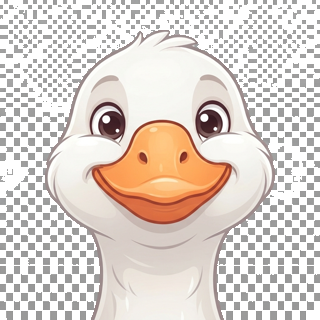
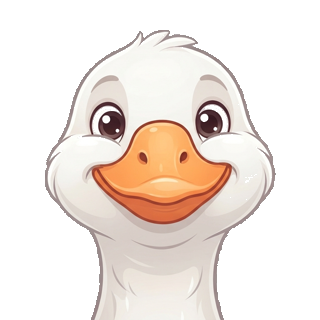
Botón de silenciar, eliminar partidas, ícono real, checkerboard de las fotos, animación suave y micro-historias por etapa
- Botón de silenciar/reactivar sonido fijo en las dos pantallas de
  juego (antes no había forma de bajarle el volumen a la partida sin
  silenciar el celular entero); se guarda la preferencia.
- Botón para eliminar una partida guardada desde "Mis partidas", con
  confirmación.
- Ícono real de la app (antes era el logo de Flutter por defecto):
  generado con flutter_launcher_icons a partir de la cara feliz de la
  oca, para Android (con ícono adaptativo) y web/favicon.
- Encontré la causa real del cuadriculado que seguía viéndose en las
  fotos de la oca: el primer arreglo (flood-fill desde las 4 esquinas)
  dejaba bolsones de cuadriculado sin tocar en zonas no conectadas al
  borde (el hueco entre la cabeza y los hombros, por ejemplo). Ahora
  se limpia por color acromático en todo rango plausible de gris de
  cuadriculado, verificado componiendo cada una de las 10 fotos sobre
  un fondo violeta para confirmar visualmente que ya no quede rastro
  (antes solo se habían revisado unas pocas y con el propio visor,
  que muestra su propio cuadriculado para transparencia real y no
  dejaba notar la diferencia).
- Animación de la cara de la oca: cross-fade suave entre cuadros en
  vez de corte seco, para que se sienta con más movimiento mientras
  no haya más fotos secuenciales.
- Micro-historias de la campaña solo: al llegar a cada etapa nueva
  se muestra una vez el nombre y la leyenda de esa etapa (ya existían
[…]

diff --git a/ocaland_flutter/lib/screens/game_screen_solo.dart b/ocaland_flutter/lib/screens/game_screen_solo.dart
@@ -1,4 +1,5 @@
 import 'package:flutter/material.dart';
+import '../models/campana.dart';
 import '../models/cell_descriptions.dart';
 import '../models/sesion_activa.dart';
 import '../services/audio_service.dart';
@@ -8,6 +9,7 @@ import 'lobby_screen.dart';
 import 'widgets/anuncio_simulado_overlay.dart';
 import 'widgets/board_widget.dart';
 import 'widgets/boton_salir_juego.dart';
+import 'widgets/boton_silenciar.dart';
 import 'widgets/campana_terminada_overlay.dart';
 import 'widgets/dice_widget.dart';
 import 'widgets/eleccion_comodin_overlay.dart';
@@ -15,6 +17,7 @@ import 'widgets/eleccion_perdiste_overlay.dart';
 import 'widgets/eleccion_video_monedas_overlay.dart';
 import 'widgets/espectador_overlay.dart';
 import 'widgets/etapa_banner.dart';
+import 'widgets/etapa_historia_dialog.dart';
 import 'widgets/jugadores_status_row.dart';
 import 'widgets/message_bubble.dart';
 import 'widgets/minijuego_overlay.dart';
@@ -35,6 +38,23 @@ class GameScreenSolo extends StatefulWidget {
 class _GameScreenSoloState extends State<GameScreenSolo> {
   SoloGameController get _c => widget.controller;
   String? _errorInicio;
+  int? _ultimaEtapaHistoriaMostrada;
+
+  /// Micro-historia de la etapa: se muestra una vez al llegar a cada
+  /// etapa nueva de la campaña (pedido explícito, "armarlo para ir
+  /// completando"). Se guarda solo en memoria (no hace falta persistir
+  /// entre sesiones — es más una bienvenida a la etapa que un logro).
+  void _revisarHistoriaEtapa() {
+    final etapa = _c.partida?.etapaActual;
+    if (etapa == null || etapa == _ultimaEtapaHistoriaMostrada) return;
+    _ultimaEtapaHistoriaMostrada = etapa;
+    final info = Campana.etapasInfo[etapa];
+    if (info == null) return;
+    WidgetsBinding.instance.addPostFrameCallback((_) {
+      if (!mounted) return;
+      showDialog(context: context, builder: (_) => EtapaHistoriaDialog(etapa: etapa, info: info));
+    });
+  }
 
   @override
   void initState() {
@@ -83,6 +103,7 @@ class _GameScreenSoloState extends State<GameScreenSolo> {
             if (_c.cargando || _c.partida == null) {
               return const Center(child: CircularProgressIndicator(color: Colors.white));
             }
+            _revisarHistoriaEtapa();
             return Stack(
               children: [
                 Center(
@@ -152,6 +173,7 @@ class _GameScreenSoloState extends State<GameScreenSolo> {
                   ),
                 ),
                 Positioned(top: 4, left: 4, child: BotonSalirJuego(onTap: () => _salir(context))),
+                const Positioned(top: 4, right: 4, child: BotonSilenciar()),
                 _overlayActual(),
               ],
             );

diff --git a/ocaland_flutter/lib/screens/widgets/etapa_historia_dialog.dart b/ocaland_flutter/lib/screens/widgets/etapa_historia_dialog.dart
@@ -1,0 +1,45 @@
+import 'package:flutter/material.dart';
+import '../../models/campana.dart';
+import '../../theme/app_colors.dart';
+
+/// Micro-historia de la etapa: se muestra una vez al llegar a cada etapa
+/// nueva de la campaña solo, con el nombre y la leyenda que ya vivían
+/// escondidos atrás del "📖 Leer" del banner — pedido explícito de
+/// armar esto para ir completando etapa por etapa.
+class EtapaHistoriaDialog extends StatelessWidget {
+  final int etapa;
+  final EtapaInfo info;
+  const EtapaHistoriaDialog({super.key, required this.etapa, required this.info});
+
+  @override
+  Widget build(BuildContext context) {
+    return Dialog(
+      backgroundColor: AppColors.parchment,
+      shape: RoundedRectangleBorder(borderRadius: BorderRadius.circular(28)),
+      child: Padding(
+        padding: const EdgeInsets.fromLTRB(24, 28, 24, 22),
+        child: Column(
+          mainAxisSize: MainAxisSize.min,
+          children: [
+            const Text('📖', style: TextStyle(fontSize: 48)),
+            const SizedBox(height: 10),
+            Text('Etapa $etapa', style: const TextStyle(fontSize: 13, color: AppColors.violetDark, fontWeight: FontWeight.w600)),
+            const SizedBox(height: 4),
+            Text(info.nombre, textAlign: TextAlign.center, style: const TextStyle(fontSize: 21, fontWeight: FontWeight.bold, color: AppColors.violetDark)),
+            const SizedBox(height: 14),
+            Text(info.leyenda, textAlign: TextAlign.center, style: const TextStyle(fontSize: 14.5, color: AppColors.violetDark, height: 1.4)),
+            const SizedBox(height: 22),
+            SizedBox(
+              width: double.infinity,
+              child: ElevatedButton(
+                style: ElevatedButton.styleFrom(backgroundColor: AppColors.gold, foregroundColor: AppColors.violetDark, shape: const StadiumBorder()),
+                onPressed: () => Navigator.of(context).pop(),
+                child: const Text('¡Vamos! 🎲', style: TextStyle(fontWeight: FontWeight.bold)),
+              ),
+            ),
+          ],
+        ),
+      ),
+    );
+  }
+}

diff --git a/ocaland_flutter/lib/screens/mis_partidas_screen.dart b/ocaland_flutter/lib/screens/mis_partidas_screen.dart
@@ -59,6 +59,24 @@ class _MisPartidasScreenState extends State<MisPartidasScreen> {
     }
   }
 
+  Future<void> _eliminar(SesionActiva sesion) async {
+    final confirmar = await showDialog<bool>(
+      context: context,
+      builder: (dialogContext) => AlertDialog(
+        backgroundColor: AppColors.parchment,
+        title: const Text('¿Eliminar esta partida?'),
+        content: const Text('No la vas a poder retomar después.'),
+        actions: [
+          TextButton(onPressed: () => Navigator.of(dialogContext).pop(false), child: const Text('Cancelar')),
+          TextButton(onPressed: () => Navigator.of(dialogContext).pop(true), child: const Text('Eliminar')),
+        ],
+      ),
+    );
+    if (confirmar != true) return;
+    await SessionService.borrar(sesion.partidaId);
+    await _cargar();
+  }
+
   @override
   Widget build(BuildContext context) {
     return Scaffold(
@@ -93,10 +111,16 @@ class _MisPartidasScreenState extends State<MisPartidasScreen> {
             children: [
               for (final s in sesiones)
                 ListTile(
-                  title: Text(s.esModoSolo ? '🤖 Campaña solo' : '👥 Sala ${s.codigo.isEmpty ? "----" : s.codigo}'),
+                  title: Text(s.esModoSolo ? '🏹 Campaña solo' : '👥 Sala ${s.codigo.isEmpty ? "----" : s.codigo}'),
                   trailing: _entrando == s.partidaId
                       ? const SizedBox(width: 18, height: 18, child: CircularProgressIndicator(strokeWidth: 2))
-                      : OutlinedButton(onPressed: () => _entrar(s), child: const Text('Entrar')),
+                      : Row(
+                          mainAxisSize: MainAxisSize.min,
+                          children: [
+                            IconButton(icon: const Icon(Icons.delete_outline, color: AppColors.coral), onPressed: () => _eliminar(s)),
+                            OutlinedButton(onPressed: () => _entrar(s), child: const Text('Entrar')),
+                          ],
+                        ),
                 ),
             ],
           ),

diff --git a/ocaland_flutter/lib/services/audio_service.dart b/ocaland_flutter/lib/services/audio_service.dart
@@ -2,6 +2,7 @@ import 'dart:typed_data';
 import 'package:audioplayers/audioplayers.dart';
 import '../utils/melody_wav.dart';
 import '../utils/tone_wav.dart';
+import 'preferencias_service.dart';
 
 /// Sonido: mismo diseño del prototipo HTML (Web Audio API, osciladores,
 /// sin archivos externos) — acá los tonos se generan como WAV en memoria
@@ -12,6 +13,27 @@ class AudioService {
   AudioService._();
 
   static bool enabled = true;
+
+  /// Carga la preferencia guardada (si el usuario ya silenció antes) —
+  /// se llama una vez al arrancar la app.
+  static Future<void> cargarPreferencia() async {
+    final v = await PreferenciasService.obtenerSonidoActivado();
+    if (v != null) enabled = v;
+  }
+
+  /// Botón de silenciar del juego: guarda la preferencia y corta/retoma
+  /// la música si hay una partida en curso (no vuelve a arrancarla si no
+  /// se le pide explícitamente, para no reactivar música en pantallas
+  /// donde no corresponde).
+  static Future<void> alternarSonido({bool enJuego = false}) async {
+    enabled = !enabled;
+    await PreferenciasService.guardarSonidoActivado(enabled);
+    if (!enabled) {
+      await detenerMusica();
+    } else if (enJuego) {
+      await iniciarMusica();
+    }
+  }
 
   static final Map<String, Uint8List> _cache = {};
   static final List<AudioPlayer> _pool = List.generate(6, (_) {

diff --git a/ocaland_flutter/lib/screens/widgets/boton_silenciar.dart b/ocaland_flutter/lib/screens/widgets/boton_silenciar.dart
@@ -1,0 +1,39 @@
+import 'package:flutter/material.dart';
+import '../../services/audio_service.dart';
+import '../../theme/app_colors.dart';
+
+/// Botón fijo para silenciar/reactivar el sonido de la partida en
+/// curso — pedido explícito del usuario, no existía ninguna forma de
+/// bajarle el volumen al juego sin silenciar el celular entero.
+class BotonSilenciar extends StatefulWidget {
+  const BotonSilenciar({super.key});
+
+  @override
+  State<BotonSilenciar> createState() => _BotonSilenciarState();
+}
+
+class _BotonSilenciarState extends State<BotonSilenciar> {
+  late bool _activado = AudioService.enabled;
+
+  Future<void> _alternar() async {
+    await AudioService.alternarSonido(enJuego: true);
+    if (mounted) setState(() => _activado = AudioService.enabled);
+  }
+
+  @override
+  Widget build(BuildContext context) {
+    return Material(
+      color: Colors.white,
+      shape: const CircleBorder(),
+      elevation: 3,
+      child: InkWell(
+        customBorder: const CircleBorder(),
+        onTap: _alternar,
+        child: Padding(
+          padding: const EdgeInsets.all(8),
+          child: Icon(_activado ? Icons.volume_up : Icons.volume_off, color: AppColors.violetDark, size: 22),
+        ),
+      ),
+    );
+  }
+}

diff --git a/ocaland_flutter/lib/services/preferencias_service.dart b/ocaland_flutter/lib/services/preferencias_service.dart
@@ -10,6 +10,7 @@ class PreferenciasService {
   static const _kEdad = 'pref_edad_bracket';
   static const _kPais = 'pref_pais';
   static const _kNivelJuegos = 'pref_nivel_juegos';
+  static const _kSonido = 'pref_sonido_activado';
 
   static Future<String?> obtenerEdad() async {
     final prefs = await SharedPreferences.getInstance();
@@ -42,5 +43,17 @@ class PreferenciasService {
   static Future<void> guardarNivelJuegos(String nivel) async {
     final prefs = await SharedPreferences.getInstance();
     await prefs.setString(_kNivelJuegos, nivel);
+  }
+
+  /// Preferencia de sonido/música, para que el botón de silenciar del
+  /// juego se mantenga apagado entre partidas y al volver a abrir la app.
+  static Future<bool?> obtenerSonidoActivado() async {
+    final prefs = await SharedPreferences.getInstance();
+    return prefs.containsKey(_kSonido) ? prefs.getBool(_kSonido) : null;
+  }
+
+  static Future<void> guardarSonidoActivado(bool activado) async {
+    final prefs = await SharedPreferences.getInstance();
+    await prefs.setBool(_kSonido, activado);
   }
 }

diff --git a/ocaland_flutter/lib/screens/widgets/oca_face.dart b/ocaland_flutter/lib/screens/widgets/oca_face.dart
@@ -80,6 +80,19 @@ class _OcaFaceState extends State<OcaFace> {
   Widget build(BuildContext context) {
     final cuadros = _cuadros;
     final nombre = cuadros[_cuadro % cuadros.length];
-    return Image.asset('assets/mascota/$nombre.png', width: widget.size, height: widget.size);
+    // Cross-fade entre cuadros en vez de corte seco — pedido explícito
+    // de que la animación "parezca con movimiento nato" mientras no
+    // haya más fotos secuenciales para un flip-book más fluido.
+    return AnimatedSwitcher(
+      duration: const Duration(milliseconds: 500),
+      switchInCurve: Curves.easeOut,
+      switchOutCurve: Curves.easeIn,
+      child: Image.asset(
+        'assets/mascota/$nombre.png',
+        key: ValueKey(nombre),
+        width: widget.size,
+        height: widget.size,
+      ),
+    );
   }
 }

diff --git a/ocaland_flutter/lib/screens/game_screen_multi.dart b/ocaland_flutter/lib/screens/game_screen_multi.dart
@@ -7,6 +7,7 @@ import 'lobby_screen.dart';
 import 'widgets/anuncio_simulado_overlay.dart';
 import 'widgets/board_widget.dart';
 import 'widgets/boton_salir_juego.dart';
+import 'widgets/boton_silenciar.dart';
 import 'widgets/desempate_panel.dart';
 import 'widgets/dice_widget.dart';
 import 'widgets/eleccion_video_monedas_overlay.dart';
@@ -139,6 +140,7 @@ class _GameScreenMultiState extends State<GameScreenMulti> {
                   ),
                 ),
                 Positioned(top: 4, left: 4, child: BotonSalirJuego(onTap: () => _salir(context))),
+                const Positioned(top: 4, right: 4, child: BotonSilenciar()),
                 _overlayActual(c),
               ],
             );

diff --git a/ocaland_flutter/lib/main.dart b/ocaland_flutter/lib/main.dart
@@ -1,11 +1,13 @@
 import 'package:flutter/material.dart';
 import 'screens/root_screen.dart';
+import 'services/audio_service.dart';
 import 'services/supabase_service.dart';
 import 'theme/app_colors.dart';
 
 Future<void> main() async {
   WidgetsFlutterBinding.ensureInitialized();
   await SupabaseService.init();
+  await AudioService.cargarPreferencia();
   runApp(const OcalandApp());
 }
 
